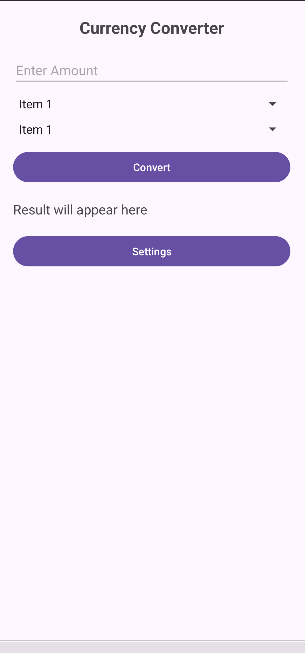
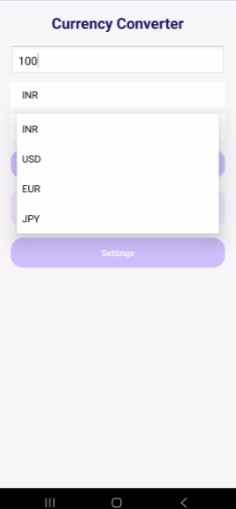
Fixed README images properly

Changed region(s): [[0.0297, 0.0884, 0.9788, 0.5305], [0.0, 0.943, 1.0, 1.0], [0.2076, 0.0295, 0.7712, 0.0589]]

diff --git a/app/src/main/java/com/example/currencyconverter/MainActivity.java b/app/src/main/java/com/example/currencyconverter/MainActivity.java
@@ -3,6 +3,7 @@ package com.example.currencyconverter;
 import android.content.Intent;
 import android.os.Bundle;
 import android.view.View;
+import android.view.ViewGroup;
 import android.widget.*;
 
 import androidx.appcompat.app.AppCompatActivity;
@@ -28,17 +29,38 @@ public class MainActivity extends AppCompatActivity {
         convertBtn = findViewById(R.id.convertBtn);
         settingsBtn = findViewById(R.id.settingsBtn);
 
-        ArrayAdapter<String> adapter = new ArrayAdapter<>(this,
-                android.R.layout.simple_spinner_dropdown_item, currencies);
+        // 🔥 FIXED SPINNER ADAPTER (WHITE BG + BLACK TEXT)
+        ArrayAdapter<String> adapter = new ArrayAdapter<String>(
+                this,
+                android.R.layout.simple_spinner_item,
+                currencies
+        ) {
+            @Override
+            public View getView(int position, View convertView, ViewGroup parent) {
+                TextView view = (TextView) super.getView(position, convertView, parent);
+                view.setTextColor(getResources().getColor(android.R.color.black));
+                return view;
+            }
+
+            @Override
+            public View getDropDownView(int position, View convertView, ViewGroup parent) {
+                TextView view = (TextView) super.getDropDownView(position, convertView, parent);
+
+                // 🔥 MAIN FIX
+                view.setTextColor(getResources().getColor(android.R.color.black));
+                view.setBackgroundColor(getResources().getColor(android.R.color.white));
+
+                return view;
+            }
+        };
+
+        adapter.setDropDownViewResource(android.R.layout.simple_spinner_dropdown_item);
 
         fromCurrency.setAdapter(adapter);
         toCurrency.setAdapter(adapter);
 
+        // Convert Logic
         convertBtn.setOnClickListener(v -> {
-
-            // Animation
-            v.animate().scaleX(0.95f).scaleY(0.95f).setDuration(100)
-                    .withEndAction(() -> v.animate().scaleX(1).scaleY(1).setDuration(100));
 
             String value = amount.getText().toString();
 
@@ -57,6 +79,7 @@ public class MainActivity extends AppCompatActivity {
             result.setText(from + " → " + to + " : " + String.format("%.2f", output));
         });
 
+        // Settings Button
         settingsBtn.setOnClickListener(v -> {
             Intent intent = new Intent(MainActivity.this, SettingsActivity.class);
             startActivity(intent);

diff --git a/app/README.md b/app/README.md
@@ -19,21 +19,17 @@ The app allows users to convert currency values between INR, USD, EUR, and JPY u
 
 ##  Screenshots
 
-### Home Screen
-
-##  Screenshots
-
-### Home Screen
+### Home Screen (Dropdown Working)
 ![Home](screenshots/result1.png)
 
-### Conversion Output
-![Output](screenshots/result2.png)
+### Conversion Output (Final Result)
+![Output](screenshots/result4.png)
 
-### Additional Screen 1
+### Settings Screen (Dark Mode)
 ![Screen3](screenshots/result3.png)
 
-### Additional Screen 2
-![Screen4](screenshots/result4.png)
+### Improved Home UI
+![Screen4](screenshots/result2.png)
 
 ---
 
@@ -104,9 +100,10 @@ currencyConverter/
 │   ├── res/
 │   └── screenshots/
 │       ├── result.png
-│       ├── result (1).png
-│       ├── reult(3).png
-│       └── result(4).png
+│       ├── result1.png
+│       ├── result2.png
+│       ├── result3.png
+│       └── result4.png
 │
 ├── README.md
 
@@ -120,10 +117,8 @@ This project helped me understand Android development basics, UI design, user in
 
 ## Author
 
-Roushan Kumar Singh
+Roushan Kumar Singh  
 BTech CSE
-
----
 
 
 
